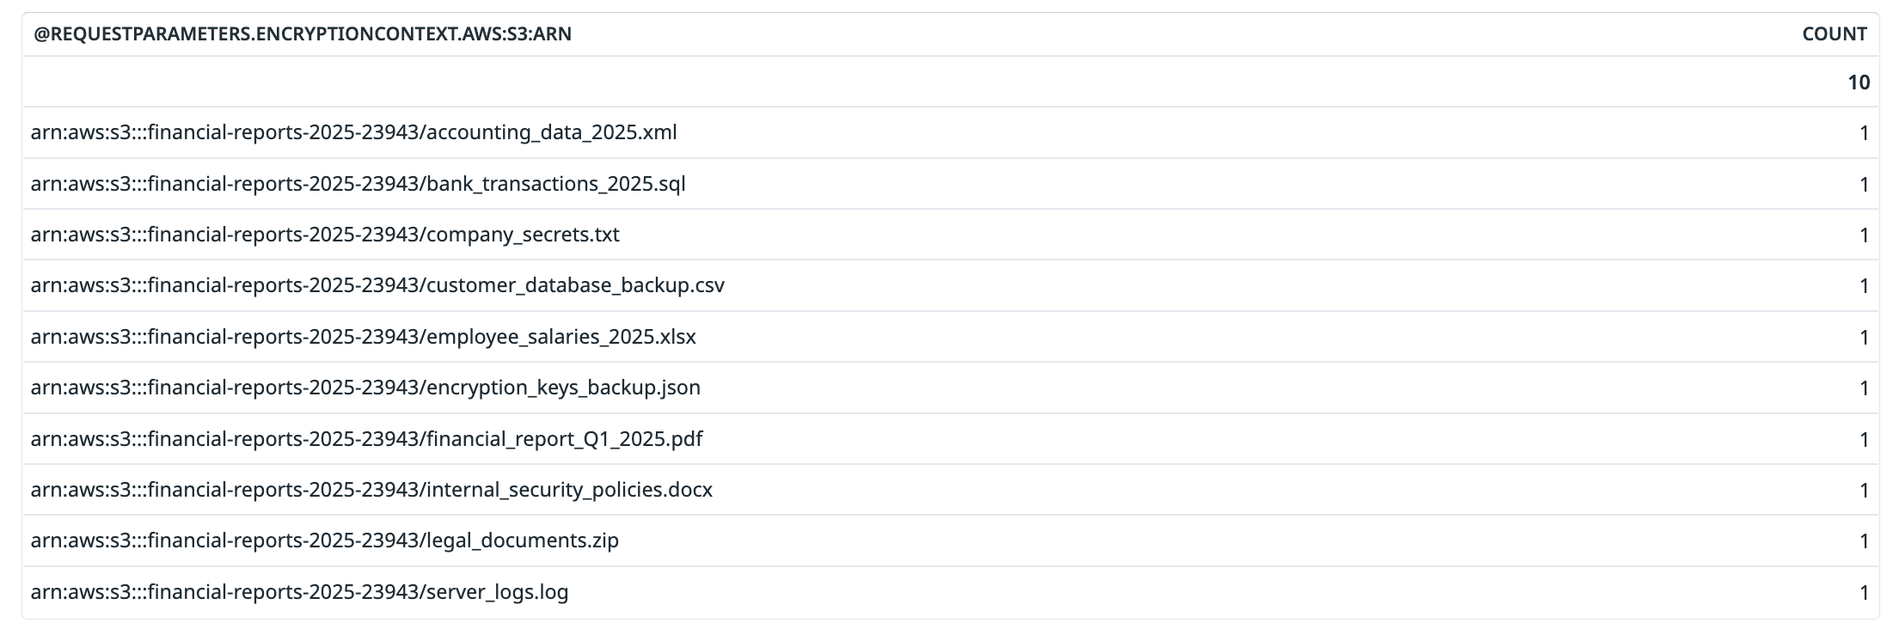
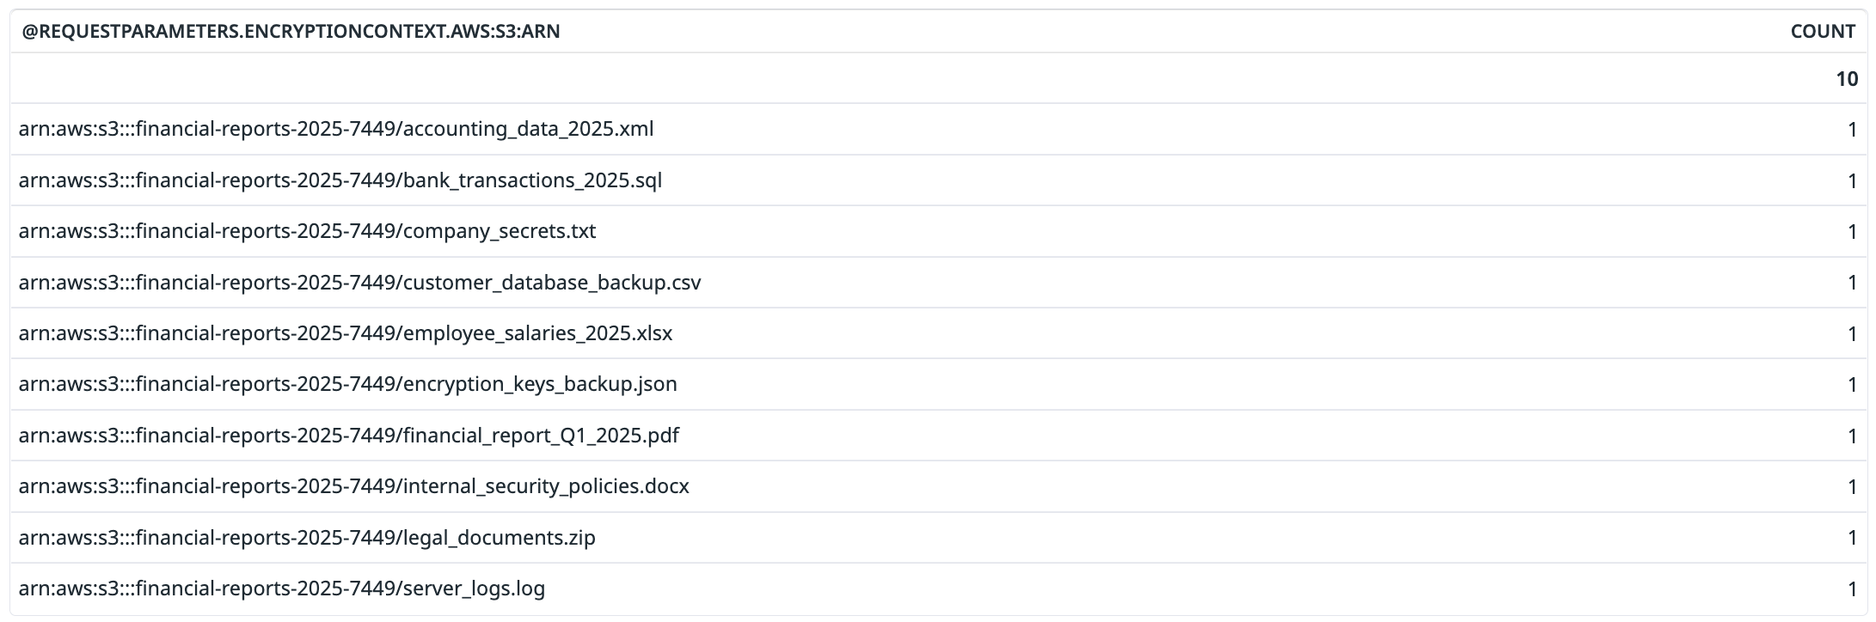
update AWS labs

diff --git a/site/AWS/aws_ransomware/index.html b/site/AWS/aws_ransomware/index.html
@@ -504,14 +504,16 @@
 
 <h1 id="ransomware-in-aws">Ransomware in AWS</h1>
 <h2 id="background">Background</h2>
-<p>SIRT has received an alert about an <a href="https://github.com/DataDog/threat-detection/blob/main/rules/cloudtrail/aws_resource_encryption_ransomware.tf">external KMS key being used to encrypt resources</a>. For the sake of this lab, no signal was generated, but if it had been, it would have been triggered by <a href="https://app.datadoghq.com/logs?query=%40eventID%3A06d89b2c-cf2c-326f-aa8d-d80ba0dc8802&amp;agg_m=count&amp;agg_m_source=base&amp;agg_t=count&amp;clustering_pattern_field_path=message&amp;cols=host%2Cservice%2C%40evt.name%2C%40requestParameters.bucketName%2C%40userIdentity.accessKeyId&amp;event=AwAAAZWGathAgTavzAAAABhBWldHYkVTX0FBQVlhc0tkY0RDbGhnRFAAAAAkMDE5NTg2NmMtOTk3OC00ZDZiLWFjMzgtMmUwN2Q2YjAzNGRmAAHYoA&amp;fromUser=true&amp;messageDisplay=inline&amp;refresh_mode=sliding&amp;storage=flex_tier&amp;stream_sort=desc&amp;viz=stream&amp;from_ts=1741716026101&amp;to_ts=1741716926101&amp;live=true">this GenerateDataKey event</a>.    </p>
+<p>SIRT has received an alert about an <a href="https://github.com/DataDog/threat-detection/blob/main/rules/cloudtrail/aws_resource_encryption_ransomware.tf">external KMS key being used to encrypt resources</a>. For the sake of this lab, no signal was generated, but if it had been, it would have been triggered by <a href="https://app.datadoghq.com/logs?query=account%3A711387092967%20%40eventID%3A38cc2426-7f1d-3218-8a48-7c68f268d485&amp;agg_m=count&amp;agg_m_source=base&amp;agg_t=count&amp;clustering_pattern_field_path=message&amp;cols=host%2Cservice&amp;event=AwAAAZWqoGgQl8191wAAABhBWldxb283U0FBRFlab1hWX2NmUC1nQnMAAAAkMDE5NWFhYTAtN2I5OC00MWYwLWI0ODItNDE5YzIyZDg0NjQ4AABUSQ&amp;fromUser=true&amp;index=cloudtrail&amp;messageDisplay=inline&amp;refresh_mode=paused&amp;storage=hot&amp;stream_sort=desc&amp;viz=stream&amp;from_ts=1742324100000&amp;to_ts=1742325000000&amp;live=false">this GenerateDataKey event</a>.    </p>
 <h3 id="logs">Logs</h3>
-<p>The logs for this lab fall within the following time frame: <code>&lt;tbd&gt;</code>.
-We can use the following filter to focus on the CloudTrail logs in the relevant AWS account:
-<code>source:cloudtrail account:711387092967</code></p>
+<p>The logs for this lab can be access via this link: <a href="https://app.datadoghq.com/logs?query=account%3A711387092967&amp;agg_m=count&amp;agg_m_source=base&amp;agg_t=count&amp;clustering_pattern_field_path=message&amp;cols=host%2Cservice&amp;fromUser=true&amp;index=cloudtrail&amp;messageDisplay=inline&amp;refresh_mode=paused&amp;storage=hot&amp;stream_sort=desc&amp;viz=stream&amp;from_ts=1742324100000&amp;to_ts=1742325000000&amp;live=false">Ransomware in AWS Logs</a>.</p>
 <div class="admonition note">
 <p class="admonition-title">Note</p>
 <p>Since the sandbox infrastructure was used for lab development, if you do not limit your searches to account ID <code>711387092967</code>, "attacker" activity will appear in the results. Feel free to look at the events to get familiar with different event types, but in the case of a similar incident, these events will not appear as they will be logged in attacker infrastructure.</p>
+</div>
+<div class="admonition note">
+<p class="admonition-title">Note</p>
+<p>Due to the testing script used, the benign setup activity has the same IP as the attacker activity, which is unlikely to happen in most cloud attacks. Usually, the IP address would be a useful pivot point.</p>
 </div>
 <h2 id="investigation">Investigation</h2>
 <p>Start by reviewing the triggering event and understanding what is happening. </p>
@@ -528,8 +530,8 @@ We can use the following filter to focus on the CloudTrail logs in the relevant 
 <summary>Answer</summary>
 <p>This event indicates an attempt to encrypt data in AWS. The request parameters provide the following context:  </p>
 <ul>
-<li>The object that was encrypted is <code>arn:aws:s3:::financial-reports-2025-23943/company_secrets.txt</code>, a file named <code>company_secrets.txt</code> in an S3 bucket called <code>financial-reports-2025-23943</code>.   </li>
-<li>It was encryted with a KMS key with ARN <code>arn:aws:kms:us-east-1:601427279990:key/aba2894d-c354-499a-b55b-329a8e776c20</code>. </li>
+<li>The object that was encrypted is <code>arn:aws:s3:::financial-reports-2025-7449/accounting_data_2025.xml</code>, a file named <code>accounting_data_2025.xml</code> in an S3 bucket called <code>financial-reports-2025-7449</code>.   </li>
+<li>It was encryted with a KMS key with ARN <code>arn:aws:kms:us-east-1:601427279990:key/88ab009c-12da-4b74-95b4-d051924119a5</code>. </li>
 </ul>
 </details>
 </details>
@@ -559,7 +561,7 @@ We can use the following filter to focus on the CloudTrail logs in the relevant 
 <summary>Answer</summary>
 <ul>
 <li>User ARN: <code>arn:aws:iam::711387092967:user/CloudOpsMonitor</code>    </li>
-<li>KMS Key ARN: <code>arn:aws:kms:us-east-1:601427279990:key/aba2894d-c354-499a-b55b-329a8e776c20</code></li>
+<li>KMS Key ARN: <code>arn:aws:kms:us-east-1:601427279990:key/88ab009c-12da-4b74-95b4-d051924119a5</code></li>
 </ul>
 </details>
 </details>
@@ -568,11 +570,11 @@ We can use the following filter to focus on the CloudTrail logs in the relevant 
 <summary>How many files were encrypted? Gather a list of the files.</summary>
 <details class="tip">
 <summary>Hint</summary>
-<p>Filter by the KMS key ARN: <code>index:cloudtrail account:711387092967 @resources.ARN:"arn:aws:kms:us-east-1:601427279990:key/aba2894d-c354-499a-b55b-329a8e776c20"</code>. Group by <code>@requestParameters.encryptionContext.aws:s3:arn</code> for a quick view of all encrypted resources.</p>
+<p>Filter by the KMS key ARN: <code>index:cloudtrail account:711387092967 @resources.ARN:"arn:aws:kms:us-east-1:601427279990:key/88ab009c-12da-4b74-95b4-d051924119a5"</code>. Group by <code>@requestParameters.encryptionContext.aws:s3:arn</code> for a quick view of all encrypted resources.</p>
 </details>
 <details class="info">
 <summary>Answer</summary>
-<p>10 files were encrypted, all in the <code>financial-reports-2025-23943</code> bucket. </p>
+<p>10 files were encrypted, all in the <code>financial-reports-2025-7449</code> bucket. </p>
 <p><img alt="file_list" src="../images/file_list.png" /></p>
 </details>
 </details>
@@ -597,11 +599,47 @@ We can use the following filter to focus on the CloudTrail logs in the relevant 
 </details>
 <details class="info">
 <summary>Answer</summary>
-<p>Along with the previously-investigated <code>GenerateDataKey</code> action, the IAM account was also used to perform <code>ListBuckets</code> and <code>GetBucketVersioning</code>. </p>
+<p>Along with the previously-investigated <code>GenerateDataKey</code> action, the IAM account was also used to perform the following actions:
+- <code>DescribeTrails</code>
+- <code>StopLogging</code>
+- <code>PutUserPolicy</code>
+- <code>GetTrailStatus</code> 
+- <code>ListBuckets</code> <br />
+- <code>GetBucketVersioning</code>
+- <code>DescribeKey</code>  <br />
+- <code>DescribeSnapshots</code><br />
+- <code>CopySnapshot</code><br />
+- <code>GenerateDataKeyWithoutPlaintext</code><br />
+- <code>DeleteSnapshot</code>  </p>
 </details>
 </details>
+<p>Let's look through each of these events to glean some insight into what the attacker was able to do in the environment. The first events are related to CloudTrail logging.</p>
 <details class="question">
-<summary>How many times was the GetBucketVersioning action taken? How many buckets was the call made against?</summary>
+<summary>What did the threat actor try to do with CloudTrail? What was the result?</summary>
+<details class="tip">
+<summary>Hint</summary>
+<p>Look at the sequence of events and pay attention to the <code>@level</code> associated with events.</p>
+</details>
+<details class="info">
+<summary>Answer</summary>
+<p>First the attacker runs <code>DescribeTrails</code>. This would allow them to retrieve a list of CloudTrails that exist in the account. The next request is to stop the logging for one of the CloudTrail's retrieved (<code>security-cloudtrail</code>). This, along with the attempt to get the Trail status after, failed due to a lack of identity-based policies allowing for those actions. This is clearly explained via Datadog in the <code>Error</code> section.</p>
+</details>
+</details>
+<p>Luckily, thanks to our IAM policies, the threat actor was unable to stop logging so we have visibility into the follow-on activities. The other event that occurs around the time of the CloudTrail is <code>PutUserPolicy</code>. </p>
+<details class="question">
+<summary>What is the policy that is applied supposed to do?</summary>
+<details class="tip">
+<summary>Hint</summary>
+<p>Look at the <code>@requestParameters</code> of the event.</p>
+</details>
+<details class="info">
+<summary>Answer</summary>
+<p>The attacker is applying a policy called <code>CloudOpsAdmins</code> to the <code>CloudOpsMonitor</code> user. The <code>@requestParameters.policyDocument</code> field shows us that the policy would allow all actions on all resources for the associated user.</p>
+</details>
+</details>
+<p>Let's move onto the bucket activity we see after the attempts to stop CloudTrail and user policy changes, but before the file encryption.</p>
+<details class="question">
+<summary>How many times was the <code>GetBucketVersioning</code> action taken? How many buckets was the call made against?</summary>
 <details class="tip">
 <summary>Hint</summary>
 <p>Further filter the search to only include <code>@evt.name:GetBucketVersioning</code>. Count the results. Group by the bucket name to see unique count of buckets.</p>
@@ -609,17 +647,6 @@ We can use the following filter to focus on the CloudTrail logs in the relevant 
 <details class="info">
 <summary>Answer</summary>
 <p>There are 16 <code>GetBucketVersioning</code> events targeting 8 different buckets.</p>
-</details>
-</details>
-<details class="question">
-<summary>What AWS CLI command was caused these events to be generated?</summary>
-<details class="tip">
-<summary>Hint</summary>
-<p>Look at the user agent.</p>
-</details>
-<details class="info">
-<summary>Answer</summary>
-<p>The user agent ends with <code>command#s3api.get-bucket-versioning</code> indicating the command executed was <code>aws s3api get-bucket-versioning</code>. We do not know if any additional parameters were passed.</p>
 </details>
 </details>
 <details class="question">
@@ -644,6 +671,42 @@ We can use the following filter to focus on the CloudTrail logs in the relevant 
 <p>This command returns the versioning state and MFA Delete status of an S3 bucket. If versioning is enabled, this makes it much more challenging to prevent the victim from being able to recover their files, since applying encryption does not retroactively encrypt old versions of files (it just creates a new version that is encrypted). MFA Delete being enabled prevents the attacker from being able to change versioning settings or permanently delete the old versions of the files without a MFA code.</p>
 </details>
 </details>
+<p>Now we will look at the activity happening after the encrytion activity that we started from. The majority of the events at this point are related to snapshots. </p>
+<details class="question">
+<summary>How many snapshots were copied? What seems to be the threat actor's intent with these actions</summary>
+<details class="tip">
+<summary>Hint</summary>
+<p>Look at API documentation to understand this event. Look at <code>@requestParameters</code> in the events for more context.</p>
+</details>
+<details class="info">
+<summary>Answer</summary>
+<p>There are 4 snapshots that are copied. The threat actor appears to be attempting to encrypt the snapshots in the account using the same KMS key that was used for encrypting the buckets.</p>
+</details>
+</details>
+<details class="question">
+<summary>Which snapshots were deleted?</summary>
+<details class="tip">
+<summary>Hint</summary>
+<p>Filter to the <code>DeleteSnaphot</code> events and group by <code>@requestParameters.snapshotId</code>.</p>
+</details>
+<details class="info">
+<summary>Answer</summary>
+<p>The following two snapshots are deleted:
+- <code>snap-09336c08a16457168</code>
+- <code>snap-0a5c7f52ffd2db5da</code></p>
+</details>
+</details>
+<details class="question">
+<summary>What events may explain why 4 snapshots were copied but only 2 were deleted?</summary>
+<details class="tip">
+<summary>Hint</summary>
+<p>Look at failed events around this timeframe.</p>
+</details>
+<details class="info">
+<summary>Answer</summary>
+<p>There are two <code>GenerateDataKeyWithoutPlaintext</code> error events. While there are no details on the snapshot the key was being generated for, logic would indicate that two of the snapshots were not able to be copied and encrypted, and thus the originals were not deleted by the threat actor in their destructive actions. </p>
+</details>
+</details>
 <p>Based on what we observed at the start of our investigation, there is something missing from the logs...</p>
 <details class="question">
 <summary>What activity is missing from the logs that we know happened?</summary>
@@ -666,7 +729,7 @@ We can use the following filter to focus on the CloudTrail logs in the relevant 
 </details>
 <details class="info">
 <summary>Answer</summary>
-<p>The only policy attacked to this user is <code>CloudOpsS3Access</code>. Along with the observed management plane events, the user had the ability to <code>GetObject</code>, <code>PutObject</code>, or <code>CopyObject</code> in S3. This means that the attacker could have downloaded or copied the data without us having a way to find out. They could have also uploaded additional files elsewhere in the account, which would require a manual audit of each bucket for recent uploads.</p>
+<p>There are two polcies attached to this user. <code>CloudOpsAdmins</code> is the one we investigated as it was added by the attacker. The only existing policy from before the attack that is attached to this user is <code>CloudOpsS3Access</code>. Along with the observed management plane events, the user had the ability to <code>GetObject</code>, <code>PutObject</code>, or <code>CopyObject</code> in S3. This means that the attacker could have downloaded or copied the data without us having a way to find out. They could have also uploaded additional files elsewhere in the account, which would require a manual audit of each bucket for recent uploads.</p>
 </details>
 </details>
 <p>At this point, we've got a good feel for the flow of the attack. The threat actor did reconnaisance searching for buckets in the account, checked which accounts had versioning/MFA delete enabled, chose a target bucket to encrypt, and left behind a ransom note. We still don't know how the attacker gained access to the IAM account though.</p>
@@ -678,7 +741,7 @@ We can use the following filter to focus on the CloudTrail logs in the relevant 
 </details>
 <details class="info">
 <summary>Answer</summary>
-<p>The access key ID associated with the user identity is <code>AKIA2LIPZS7T6K4WNUAC</code>. As discussed when we broke down access key ID prefixes, the <code>AKIA</code> prefix indicates an access key is being used.</p>
+<p>The access key ID associated with the user identity is <code>AKIA2LIPZS7T27U6CQ24</code>. As discussed when we broke down access key ID prefixes, the <code>AKIA</code> prefix indicates an access key is being used.</p>
 </details>
 </details>
 <p>The challenge at this point is there isn't really any evidence of <em>how</em> the attacker got ahold of the access key. Most often threat actors steal keys that are accidentally leaked in code repositories, but it could have also been stolen from a user's laptop or cloud storage. Unless an alert from AWS or Datadog tells us an API key is leaked, the exact source of the leak is not clear. The best we can do is uncover who created the key for this <code>CloudOpsMonitor</code> account and see where the key has been shared. </p>

diff --git a/docs/AWS/aws_ransomware.md b/docs/AWS/aws_ransomware.md
@@ -1,13 +1,16 @@
 # Ransomware in AWS
 ## Background
 
-SIRT has received an alert about an [external KMS key being used to encrypt resources](https://github.com/DataDog/threat-detection/blob/main/rules/cloudtrail/aws_resource_encryption_ransomware.tf). For the sake of this lab, no signal was generated, but if it had been, it would have been triggered by [this GenerateDataKey event](https://app.datadoghq.com/logs?query=%40eventID%3A06d89b2c-cf2c-326f-aa8d-d80ba0dc8802&agg_m=count&agg_m_source=base&agg_t=count&clustering_pattern_field_path=message&cols=host%2Cservice%2C%40evt.name%2C%40requestParameters.bucketName%2C%40userIdentity.accessKeyId&event=AwAAAZWGathAgTavzAAAABhBWldHYkVTX0FBQVlhc0tkY0RDbGhnRFAAAAAkMDE5NTg2NmMtOTk3OC00ZDZiLWFjMzgtMmUwN2Q2YjAzNGRmAAHYoA&fromUser=true&messageDisplay=inline&refresh_mode=sliding&storage=flex_tier&stream_sort=desc&viz=stream&from_ts=1741716026101&to_ts=1741716926101&live=true).    
+SIRT has received an alert about an [external KMS key being used to encrypt resources](https://github.com/DataDog/threat-detection/blob/main/rules/cloudtrail/aws_resource_encryption_ransomware.tf). For the sake of this lab, no signal was generated, but if it had been, it would have been triggered by [this GenerateDataKey event](https://app.datadoghq.com/logs?query=account%3A711387092967%20%40eventID%3A38cc2426-7f1d-3218-8a48-7c68f268d485&agg_m=count&agg_m_source=base&agg_t=count&clustering_pattern_field_path=message&cols=host%2Cservice&event=AwAAAZWqoGgQl8191wAAABhBWldxb283U0FBRFlab1hWX2NmUC1nQnMAAAAkMDE5NWFhYTAtN2I5OC00MWYwLWI0ODItNDE5YzIyZDg0NjQ4AABUSQ&fromUser=true&index=cloudtrail&messageDisplay=inline&refresh_mode=paused&storage=hot&stream_sort=desc&viz=stream&from_ts=1742324100000&to_ts=1742325000000&live=false).    
 
 ### Logs
-The logs for this lab can be access via this link: [Ransomware in AWS Logs](https://app.datadoghq.com/logs?query=source%3Acloudtrail%20account%3A711387092967&agg_m=count&agg_m_source=base&agg_t=count&cols=host%2Cservice&fromUser=true&messageDisplay=inline&refresh_mode=paused&storage=flex_tier&stream_sort=desc&from_ts=1741716000000&to_ts=1741717800000&live=false).
+The logs for this lab can be access via this link: [Ransomware in AWS Logs](https://app.datadoghq.com/logs?query=account%3A711387092967&agg_m=count&agg_m_source=base&agg_t=count&clustering_pattern_field_path=message&cols=host%2Cservice&fromUser=true&index=cloudtrail&messageDisplay=inline&refresh_mode=paused&storage=hot&stream_sort=desc&viz=stream&from_ts=1742324100000&to_ts=1742325000000&live=false).
 
 !!! note
     Since the sandbox infrastructure was used for lab development, if you do not limit your searches to account ID `711387092967`, "attacker" activity will appear in the results. Feel free to look at the events to get familiar with different event types, but in the case of a similar incident, these events will not appear as they will be logged in attacker infrastructure.
+
+!!! note
+    Due to the testing script used, the benign setup activity has the same IP as the attacker activity, which is unlikely to happen in most cloud attacks. Usually, the IP address would be a useful pivot point.
 
 
 ## Investigation
@@ -22,8 +25,8 @@ Start by reviewing the triggering event and understanding what is happening.
     ??? info "Answer"
         This event indicates an attempt to encrypt data in AWS. The request parameters provide the following context:  
         
-        - The object that was encrypted is `arn:aws:s3:::financial-reports-2025-23943/company_secrets.txt`, a file named `company_secrets.txt` in an S3 bucket called `financial-reports-2025-23943`.   
-        - It was encryted with a KMS key with ARN `arn:aws:kms:us-east-1:601427279990:key/aba2894d-c354-499a-b55b-329a8e776c20`. 
+        - The object that was encrypted is `arn:aws:s3:::financial-reports-2025-7449/accounting_data_2025.xml`, a file named `accounting_data_2025.xml` in an S3 bucket called `financial-reports-2025-7449`.   
+        - It was encryted with a KMS key with ARN `arn:aws:kms:us-east-1:601427279990:key/88ab009c-12da-4b74-95b4-d051924119a5`. 
 
 
 ??? question "What is a notable attribute of the KMS key involved in the encryption?"
@@ -44,22 +47,21 @@ Now that we have reviewed the triggering event, let's look at the bigger picture
 
     ??? info "Answer"
         - User ARN: `arn:aws:iam::711387092967:user/CloudOpsMonitor`    
-        - KMS Key ARN: `arn:aws:kms:us-east-1:601427279990:key/aba2894d-c354-499a-b55b-329a8e776c20`
+        - KMS Key ARN: `arn:aws:kms:us-east-1:601427279990:key/88ab009c-12da-4b74-95b4-d051924119a5`
 
 Before broadening our search to all activity from the IAM user, let's first see the full scope of the encryption activities.
 
 ??? question "How many files were encrypted? Gather a list of the files."
 
     ??? tip "Hint"
-        Filter by the KMS key ARN: `index:cloudtrail account:711387092967 @resources.ARN:"arn:aws:kms:us-east-1:601427279990:key/aba2894d-c354-499a-b55b-329a8e776c20"`. Group by `@requestParameters.encryptionContext.aws:s3:arn` for a quick view of all encrypted resources.
+        Filter by the KMS key ARN: `index:cloudtrail account:711387092967 @resources.ARN:"arn:aws:kms:us-east-1:601427279990:key/88ab009c-12da-4b74-95b4-d051924119a5"`. Group by `@requestParameters.encryptionContext.aws:s3:arn` for a quick view of all encrypted resources.
 
     ??? info "Answer"
-        10 files were encrypted, all in the `financial-reports-2025-23943` bucket. 
+        10 files were encrypted, all in the `financial-reports-2025-7449` bucket. 
 
         ![file_list](./images/file_list.png)
 
 We've mentioned in training that not all S3 buckets provide data-level logging, so any write or read operations on the bucket will not be logged. Let's go look at the bucket in the AWS console quick and see if there is anything notable.
-
 
 ??? question "Besides the bad practice of storing seemingly sensitive files, is there anything notable about the files in the bucket?"
 
@@ -77,10 +79,43 @@ At this point, we've figured out that we were the target of a ransomware attack 
         Search based on the username `CloudOpsMonitor` and group by `@evt.name`.
 
     ??? info "Answer"
-        Along with the previously-investigated `GenerateDataKey` action, the IAM account was also used to perform `ListBuckets` and `GetBucketVersioning`. 
+        Along with the previously-investigated `GenerateDataKey` action, the IAM account was also used to perform the following actions:
+        - `DescribeTrails`
+        - `StopLogging`
+        - `PutUserPolicy`
+        - `GetTrailStatus` 
+        - `ListBuckets`   
+        - `GetBucketVersioning`
+        - `DescribeKey`    
+        - `DescribeSnapshots`  
+        - `CopySnapshot`  
+        - `GenerateDataKeyWithoutPlaintext`  
+        - `DeleteSnapshot`  
+
+Let's look through each of these events to glean some insight into what the attacker was able to do in the environment. The first events are related to CloudTrail logging.
+
+??? question "What did the threat actor try to do with CloudTrail? What was the result?"
+
+    ??? tip "Hint"
+        Look at the sequence of events and pay attention to the `@level` associated with events.
+
+    ??? info "Answer"
+        First the attacker runs `DescribeTrails`. This would allow them to retrieve a list of CloudTrails that exist in the account. The next request is to stop the logging for one of the CloudTrail's retrieved (`security-cloudtrail`). This, along with the attempt to get the Trail status after, failed due to a lack of identity-based policies allowing for those actions. This is clearly explained via Datadog in the `Error` section.
 
 
-??? question "How many times was the GetBucketVersioning action taken? How many buckets was the call made against?"
+Luckily, thanks to our IAM policies, the threat actor was unable to stop logging so we have visibility into the follow-on activities. The other event that occurs around the time of the CloudTrail is `PutUserPolicy`. 
+
+??? question "What is the policy that is applied supposed to do?"
+
+    ??? tip "Hint"
+        Look at the `@requestParameters` of the event.
+
+    ??? info "Answer"
+        The attacker is applying a policy called `CloudOpsAdmins` to the `CloudOpsMonitor` user. The `@requestParameters.policyDocument` field shows us that the policy would allow all actions on all resources for the associated user.
+
+Let's move onto the bucket activity we see after the attempts to stop CloudTrail and user policy changes, but before the file encryption.
+
+??? question "How many times was the `GetBucketVersioning` action taken? How many buckets was the call made against?"
 
     ??? tip "Hint"
         Further filter the search to only include `@evt.name:GetBucketVersioning`. Count the results. Group by the bucket name to see unique count of buckets.
@@ -106,6 +141,33 @@ At this point, we've figured out that we were the target of a ransomware attack 
     ??? info "Answer"
         This command returns the versioning state and MFA Delete status of an S3 bucket. If versioning is enabled, this makes it much more challenging to prevent the victim from being able to recover their files, since applying encryption does not retroactively encrypt old versions of files (it just creates a new version that is encrypted). MFA Delete being enabled prevents the attacker from being able to change versioning settings or permanently delete the old versions of the files without a MFA code.
 
+Now we will look at the activity happening after the encrytion activity that we started from. The majority of the events at this point are related to snapshots. 
+
+??? question "How many snapshots were copied? What seems to be the threat actor's intent with these actions"
+
+    ??? tip "Hint"
+        Look at API documentation to understand this event. Look at `@requestParameters` in the events for more context.
+
+    ??? info "Answer"
+        There are 4 snapshots that are copied. The threat actor appears to be attempting to encrypt the snapshots in the account using the same KMS key that was used for encrypting the buckets.
+
+??? question "Which snapshots were deleted?"
+
+    ??? tip "Hint"
+        Filter to the `DeleteSnaphot` events and group by `@requestParameters.snapshotId`.
+
+    ??? info "Answer"
+        The following two snapshots are deleted:
+        - `snap-09336c08a16457168`
+        - `snap-0a5c7f52ffd2db5da`
+
+??? question "What events may explain why 4 snapshots were copied but only 2 were deleted?"
+
+    ??? tip "Hint"
+        Look at failed events around this timeframe.
+
+    ??? info "Answer"
+        There are two `GenerateDataKeyWithoutPlaintext` error events. While there are no details on the snapshot the key was being generated for, logic would indicate that two of the snapshots were not able to be copied and encrypted, and thus the originals were not deleted by the threat actor in their destructive actions. 
 
 Based on what we observed at the start of our investigation, there is something missing from the logs...
 
@@ -129,7 +191,7 @@ If those events are missing, maybe there are other events that could be missing 
 
     ??? info "Answer"
 
-        The only policy attacked to this user is `CloudOpsS3Access`. Along with the observed management plane events, the user had the ability to `GetObject`, `PutObject`, or `CopyObject` in S3. This means that the attacker could have downloaded or copied the data without us having a way to find out. They could have also uploaded additional files elsewhere in the account, which would require a manual audit of each bucket for recent uploads.
+        There are two polcies attached to this user. `CloudOpsAdmins` is the one we investigated as it was added by the attacker. The only existing policy from before the attack that is attached to this user is `CloudOpsS3Access`. Along with the observed management plane events, the user had the ability to `GetObject`, `PutObject`, or `CopyObject` in S3. This means that the attacker could have downloaded or copied the data without us having a way to find out. They could have also uploaded additional files elsewhere in the account, which would require a manual audit of each bucket for recent uploads.
 
 At this point, we've got a good feel for the flow of the attack. The threat actor did reconnaisance searching for buckets in the account, checked which accounts had versioning/MFA delete enabled, chose a target bucket to encrypt, and left behind a ransom note. We still don't know how the attacker gained access to the IAM account though.
 
@@ -140,7 +202,7 @@ At this point, we've got a good feel for the flow of the attack. The threat acto
         Look at the accessKeyId used for the `ListBuckets` and `GetBucketVersioning` events.
 
     ??? info "Answer"
-        The access key ID associated with the user identity is `AKIA2LIPZS7T6K4WNUAC`. As discussed when we broke down access key ID prefixes, the `AKIA` prefix indicates an access key is being used.
+        The access key ID associated with the user identity is `AKIA2LIPZS7T27U6CQ24`. As discussed when we broke down access key ID prefixes, the `AKIA` prefix indicates an access key is being used.
 
 The challenge at this point is there isn't really any evidence of _how_ the attacker got ahold of the access key. Most often threat actors steal keys that are accidentally leaked in code repositories, but it could have also been stolen from a user's laptop or cloud storage. Unless an alert from AWS or Datadog tells us an API key is leaked, the exact source of the leak is not clear. The best we can do is uncover who created the key for this `CloudOpsMonitor` account and see where the key has been shared. 
 
